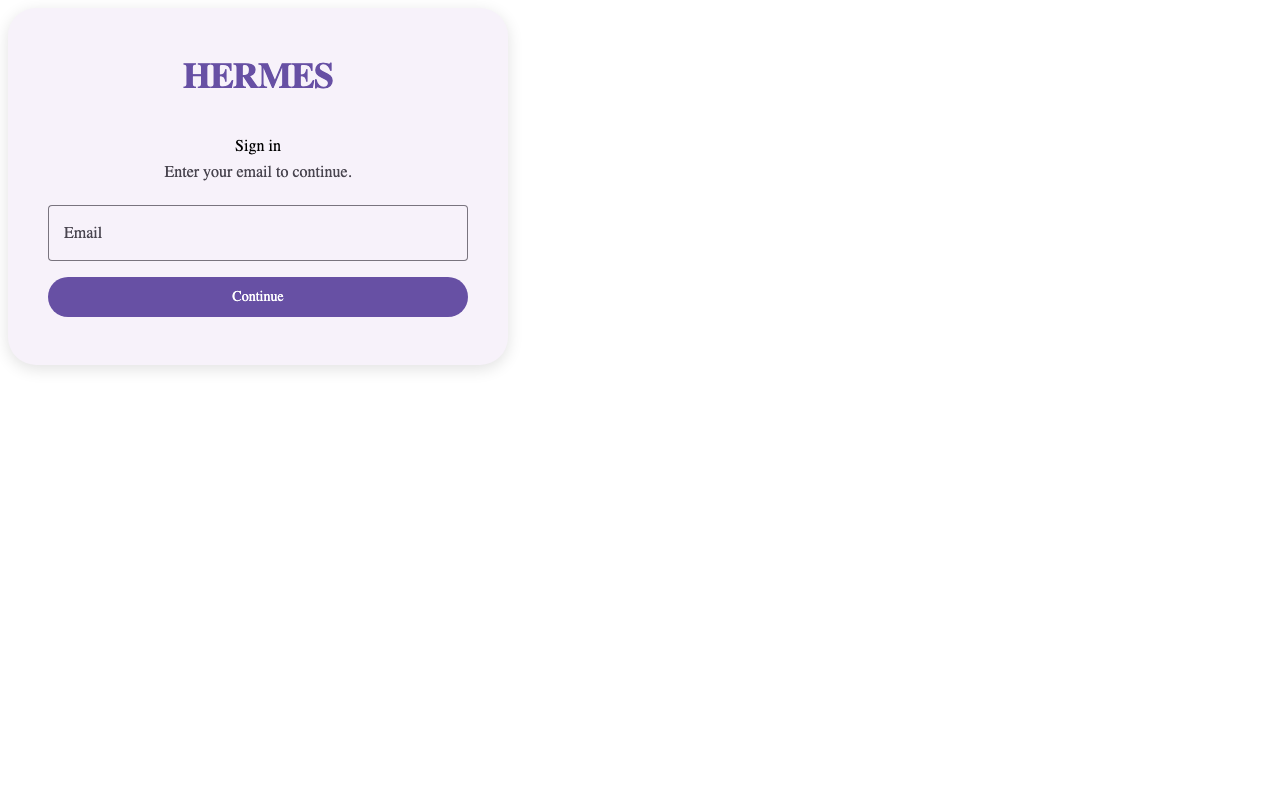
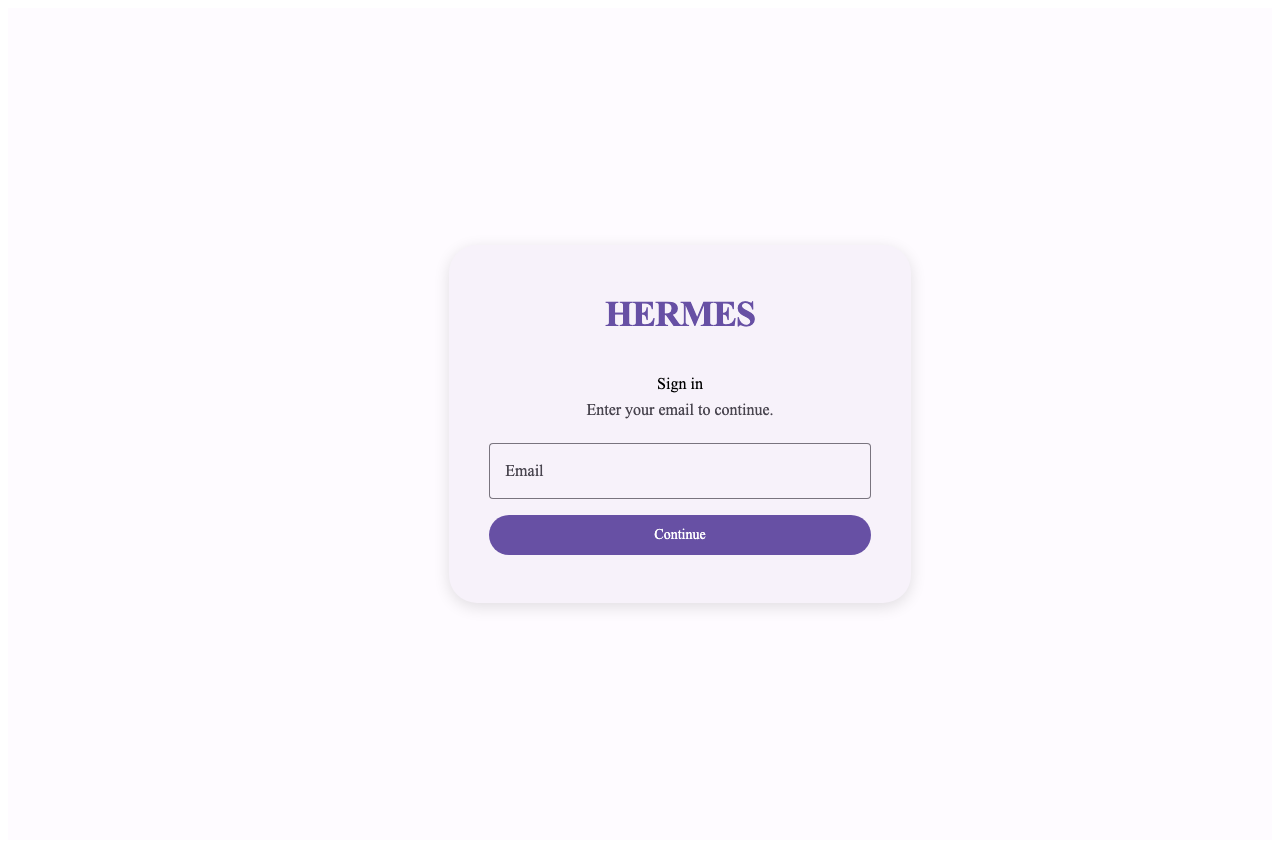
fix: login form centering — move .login-screen CSS to shell page
The .login-screen class was defined in login-form/index.css but the
<div class="login-screen"> renders in pages/index.html outside the
component's scope. Tachyon scopes component CSS to the component's
own output, so the flexbox centering never applied. Moved to the
shell page CSS where it properly styles the container.

Login card verified centered at centerX=0, centerY=0 in 1280x800.

diff --git a/browser/pages/index.css b/browser/pages/index.css
@@ -128,6 +128,16 @@
     background: var(--ms-list-bg);
   }
 
+  /* ── Login screen (rendered in shell, outside login-form component) ──── */
+  .login-screen {
+    display: flex;
+    align-items: center;
+    justify-content: center;
+    min-height: 100dvh;
+    background: var(--ms-bg, #fefbff);
+    padding: 1rem;
+  }
+
   /* ── Three-panel mail layout ──────────────────────────────────────────── */
   .mail-layout {
     display: flex; flex: 1; min-height: 0;

diff --git a/browser/components/login-form/index.css b/browser/components/login-form/index.css
@@ -37,15 +37,6 @@
     text-align: center;
   }
 
-  .login-screen {
-    display: flex;
-    align-items: center;
-    justify-content: center;
-    min-height: 100dvh;
-    background: var(--ms-surface, #fefbff);
-    padding: 1rem;
-  }
-
   .passkey-prompt {
     text-align: center;
   }
